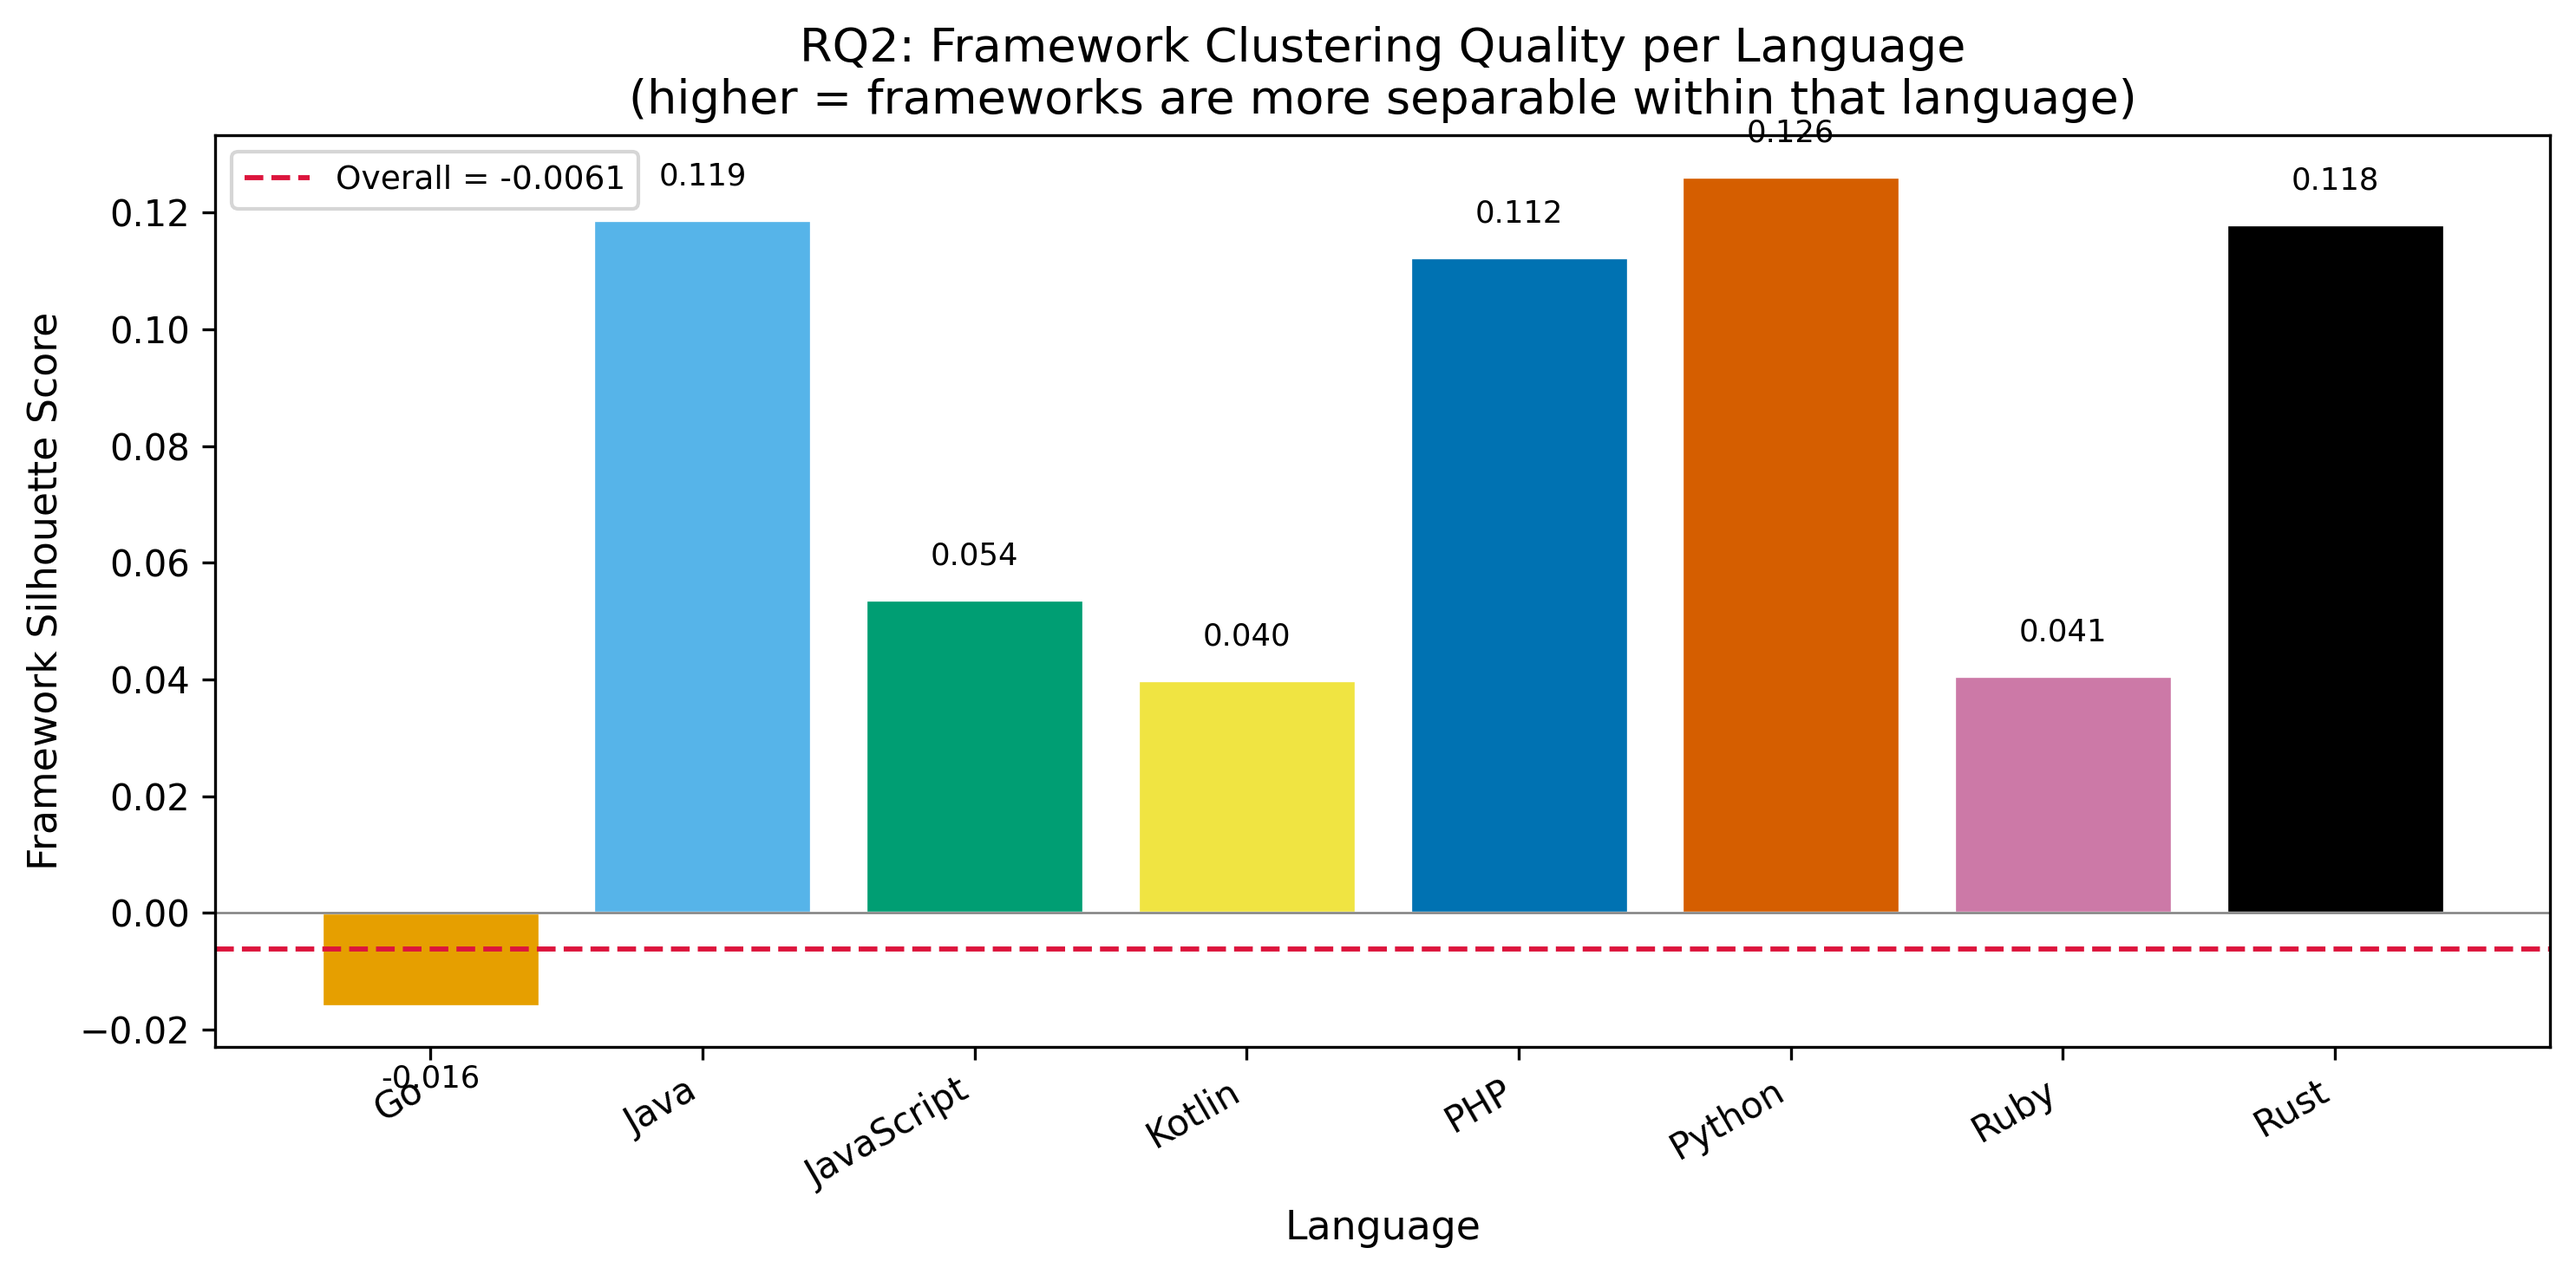
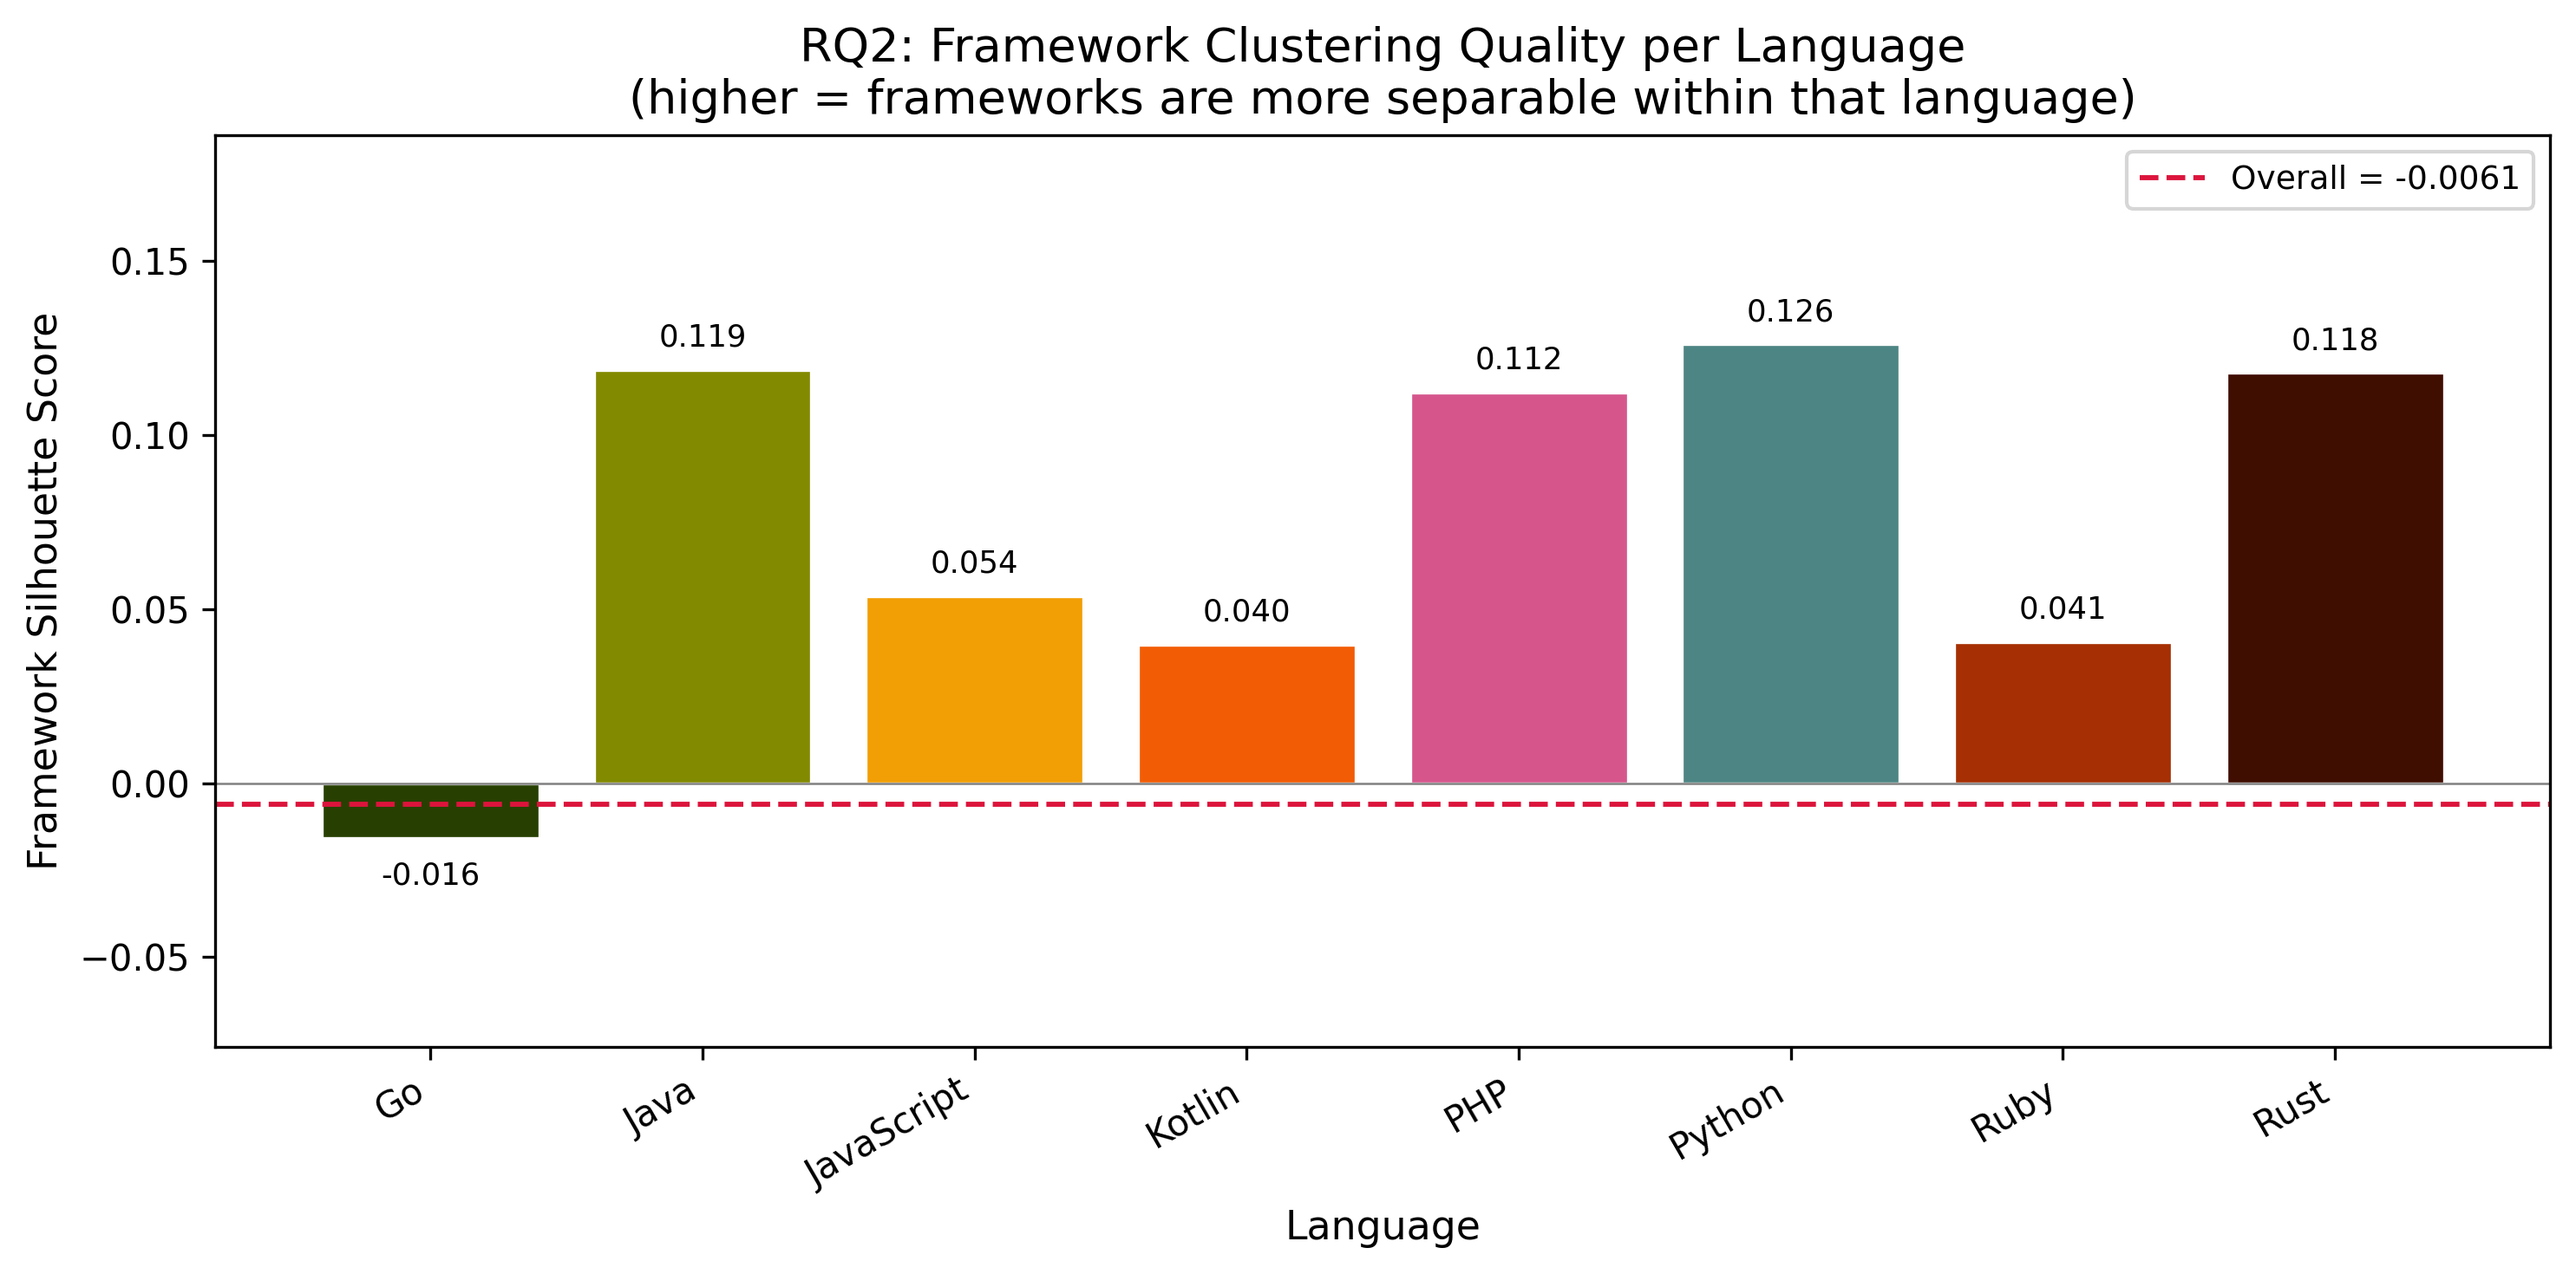
Update RQ2 visuals

diff --git a/code/rq2/3_visualize.py b/code/rq2/3_visualize.py
@@ -40,14 +40,14 @@ plt.rcParams.update({
 
 # Colourblind-friendly palette for languages (up to 8)
 LANG_PALETTE = [
-    "#E69F00",  # orange
-    "#56B4E9",  # sky blue
-    "#009E73",  # green
-    "#F0E442",  # yellow
-    "#0072B2",  # blue
-    "#D55E00",  # vermillion
-    "#CC79A7",  # pink
-    "#000000",  # black
+    "#274001",
+    "#828a00",
+    "#f29f05",
+    "#f25c05",
+    "#d6568c",
+    "#4d8584",
+    "#a62f03",
+    "#400d01",
 ]
 
 # Distinct markers for frameworks within each language (up to ~10)
@@ -94,7 +94,15 @@ def plot_tsne(df: pd.DataFrame, output_dir: str):
         fws = sorted(df.loc[df["language"] == lang, "framework"].unique())
         lang_fw_marker[lang] = build_fw_marker(fws)
 
-    fig, ax = plt.subplots(figsize=(13, 9))
+    # bottom_pad must clear the full height of the tallest legend column:
+    # roughly (title + max_fw entries) × ~0.045 each, plus a gap above.
+    max_fw = max(len(v) for v in lang_fw_marker.values())
+    legend_col_h = (1 + max_fw) * 0.015   # approx figure-fraction height per legend
+    bottom_pad = legend_col_h + 0.10       # legend height + comfortable gap
+
+    fig, ax = plt.subplots(figsize=(14, 11))
+    # right=0.82 leaves room for the language legend; bottom clears the column legends
+    fig.subplots_adjust(bottom=bottom_pad, right=0.82)
 
     for lang in languages:
         color = lang_color[lang]
@@ -113,50 +121,56 @@ def plot_tsne(df: pd.DataFrame, output_dir: str):
                 zorder=2,
             )
 
-    # ── Legend panel 1: Language colours ──
+    # ── Legend (right): one colour patch per Language ──
     lang_handles = [
         mpatches.Patch(facecolor=lang_color[lang], edgecolor="grey", linewidth=0.5, label=lang)
         for lang in languages
     ]
-    legend1 = ax.legend(
+    legend_lang = ax.legend(
         handles=lang_handles,
         title="Language",
         loc="upper left",
         bbox_to_anchor=(1.01, 1.0),
+        bbox_transform=ax.transAxes,
         frameon=True,
         framealpha=0.9,
     )
-    ax.add_artist(legend1)
+    ax.add_artist(legend_lang)
 
-    # ── Legend panel 2: Framework markers, grouped per language ──
-    fw_handles = []
-    for lang in languages:
-        # Section header (invisible dummy line used as a bold title entry)
-        fw_handles.append(
-            mlines.Line2D([], [], color="none", label=f"── {lang} ──")
-        )
-        fw_marker = lang_fw_marker[lang]
+    # ── Legend (below): one column per Language, each listing its frameworks ──
+    n_langs = len(languages)
+    col_width = 1.0 / n_langs
+    # Anchor at the bottom of the figure; legends grow upward from there
+    legend_y = 0.02
+
+    for k, lang in enumerate(languages):
         color = lang_color[lang]
-        for fw, marker in sorted(fw_marker.items()):
-            fw_handles.append(
-                mlines.Line2D(
-                    [], [],
-                    marker=marker, color=color,
-                    markeredgecolor="white", markeredgewidth=0.3,
-                    markersize=7, linestyle="None",
-                    label=f"  {fw}",
-                )
+        handles = [
+            mlines.Line2D(
+                [], [],
+                marker=marker, color=color,
+                markeredgecolor="white", markeredgewidth=0.3,
+                markersize=7, linestyle="None",
+                label=fw,
             )
-
-    ax.legend(
-        handles=fw_handles,
-        title="Framework",
-        loc="upper left",
-        bbox_to_anchor=(1.01, 0.58),
-        frameon=True,
-        framealpha=0.9,
-        handlelength=1.2,
-    )
+            for fw, marker in sorted(lang_fw_marker[lang].items())
+        ]
+        x_center = (k + 0.5) * col_width
+        leg = fig.legend(
+            handles=handles,
+            title=lang,
+            title_fontproperties={"weight": "bold", "size": 8},
+            loc="lower center",
+            bbox_to_anchor=(x_center, legend_y),
+            bbox_transform=fig.transFigure,
+            frameon=True,
+            framealpha=0.88,
+            fontsize=7.5,
+            ncol=1,
+            borderpad=0.5,
+            handletextpad=0.4,
+            labelcolor=color,
+        )
 
     ax.set_title(
         "RQ2: t-SNE of Code Embeddings\n"
@@ -164,7 +178,6 @@ def plot_tsne(df: pd.DataFrame, output_dir: str):
     )
     ax.set_xlabel("t-SNE 1")
     ax.set_ylabel("t-SNE 2")
-    plt.tight_layout()
 
     path = os.path.join(output_dir, "tsne_scatter.png")
     fig.savefig(path, bbox_inches="tight")
@@ -274,8 +287,8 @@ def plot_distance_heatmap(metrics: dict, df_meta: pd.DataFrame, output_dir: str)
         if col_start > 0:
             ax.axvline(x=col_start - 0.5, color="white", linewidth=2.0)
 
-        # Language label above columns
-        ax.text(col_mid, -0.85, lang, ha="center", va="bottom",
+        # Language label just below the tick labels
+        ax.text(col_mid, -0.11, lang, ha="center", va="top",
                 fontsize=8, fontweight="bold", color=lc,
                 transform=ax.get_xaxis_transform())
 
@@ -285,7 +298,7 @@ def plot_distance_heatmap(metrics: dict, df_meta: pd.DataFrame, output_dir: str)
 
     ax.set_title("RQ2: Same-Language Cross-Framework Cosine Distance by Pattern\n"
                  "(grouped by language; only intra-language framework pairs shown)")
-    ax.set_xlabel("Framework Pair  (grouped by Language)")
+    ax.set_xlabel("Framework Pair  (grouped by Language)", labelpad=28)
     ax.set_ylabel("Software Pattern")
     plt.tight_layout()
 
@@ -323,6 +336,11 @@ def plot_silhouette_bars(metrics: dict, output_dir: str):
     ax.axhline(y=overall, color="crimson", linestyle="--", linewidth=1.4,
                label=f"Overall = {overall:.4f}")
     ax.axhline(y=0, color="grey", linewidth=0.6)
+
+    # Increase visible y range so bars aren't cramped against the edges
+    y_min = min(min(scores), 0)
+    y_max = max(max(scores), overall)
+    ax.set_ylim(y_min - 0.06, y_max + 0.06)
 
     ax.set_ylabel("Framework Silhouette Score")
     ax.set_xlabel("Language")
